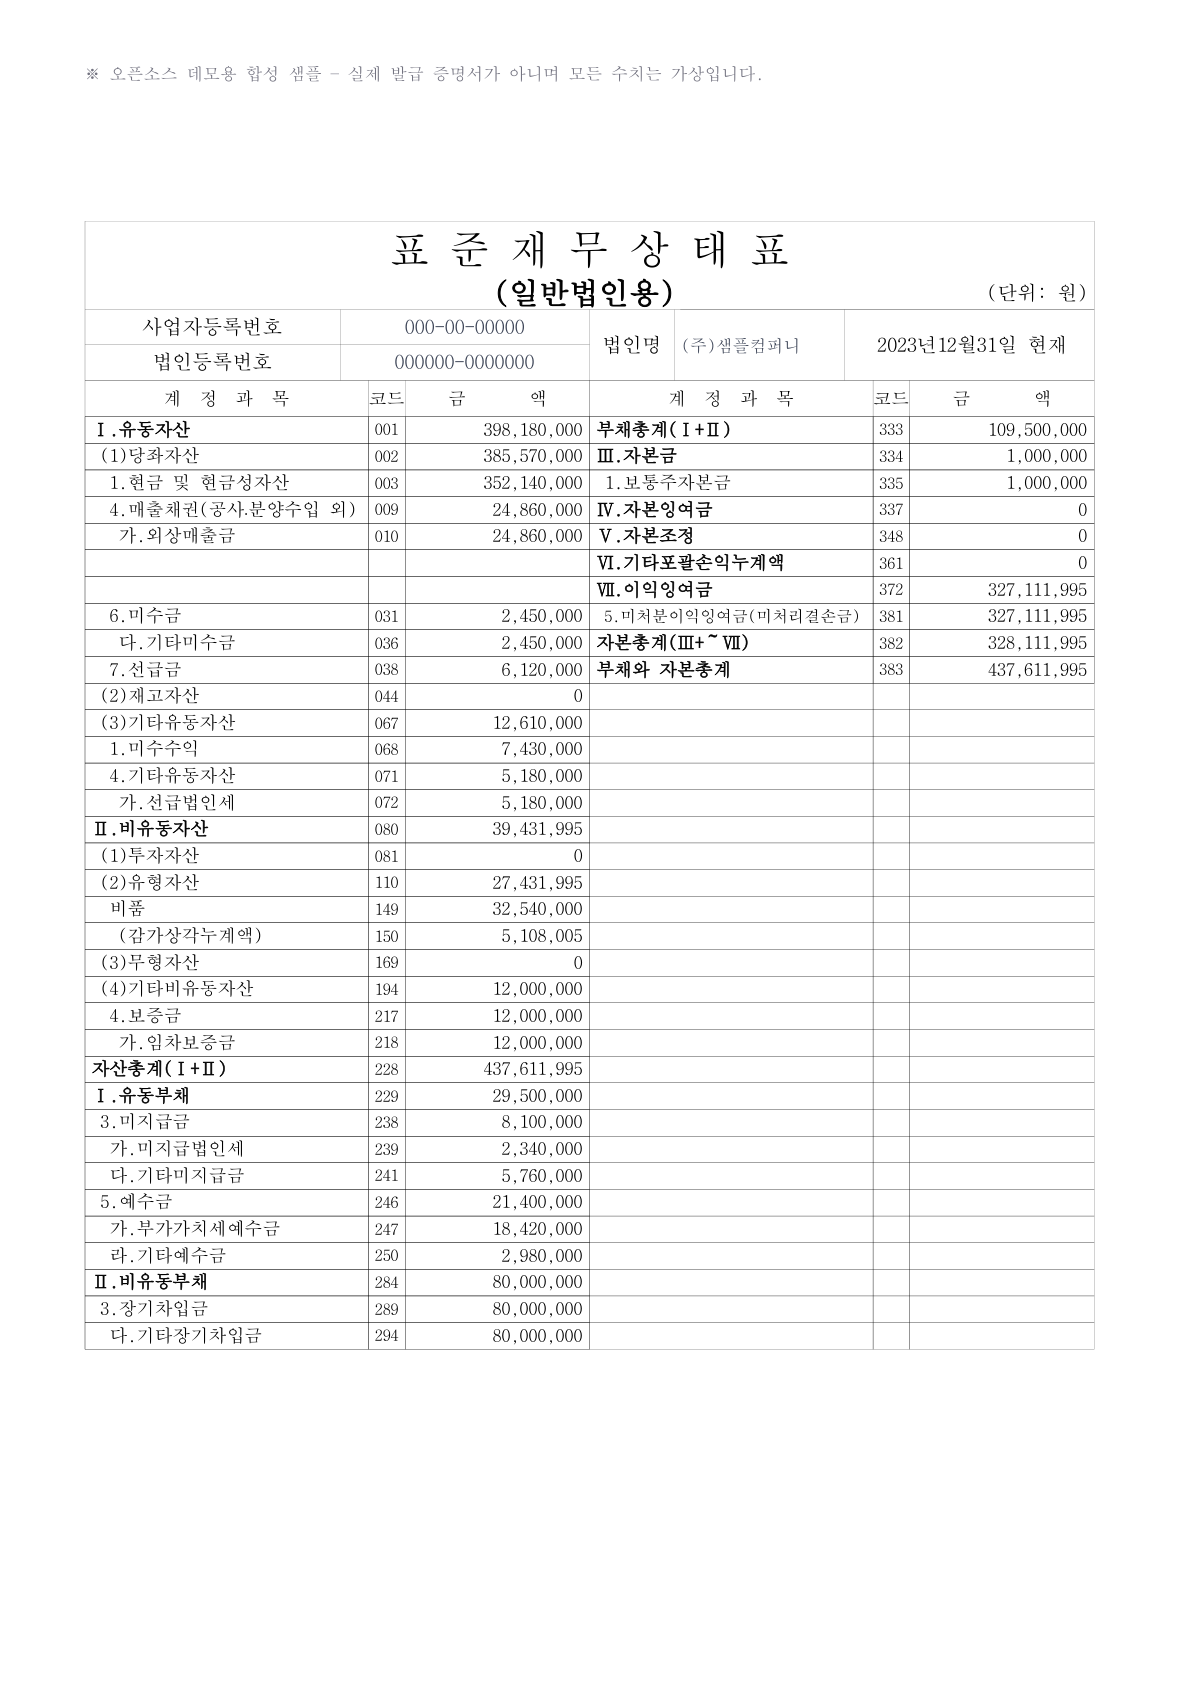
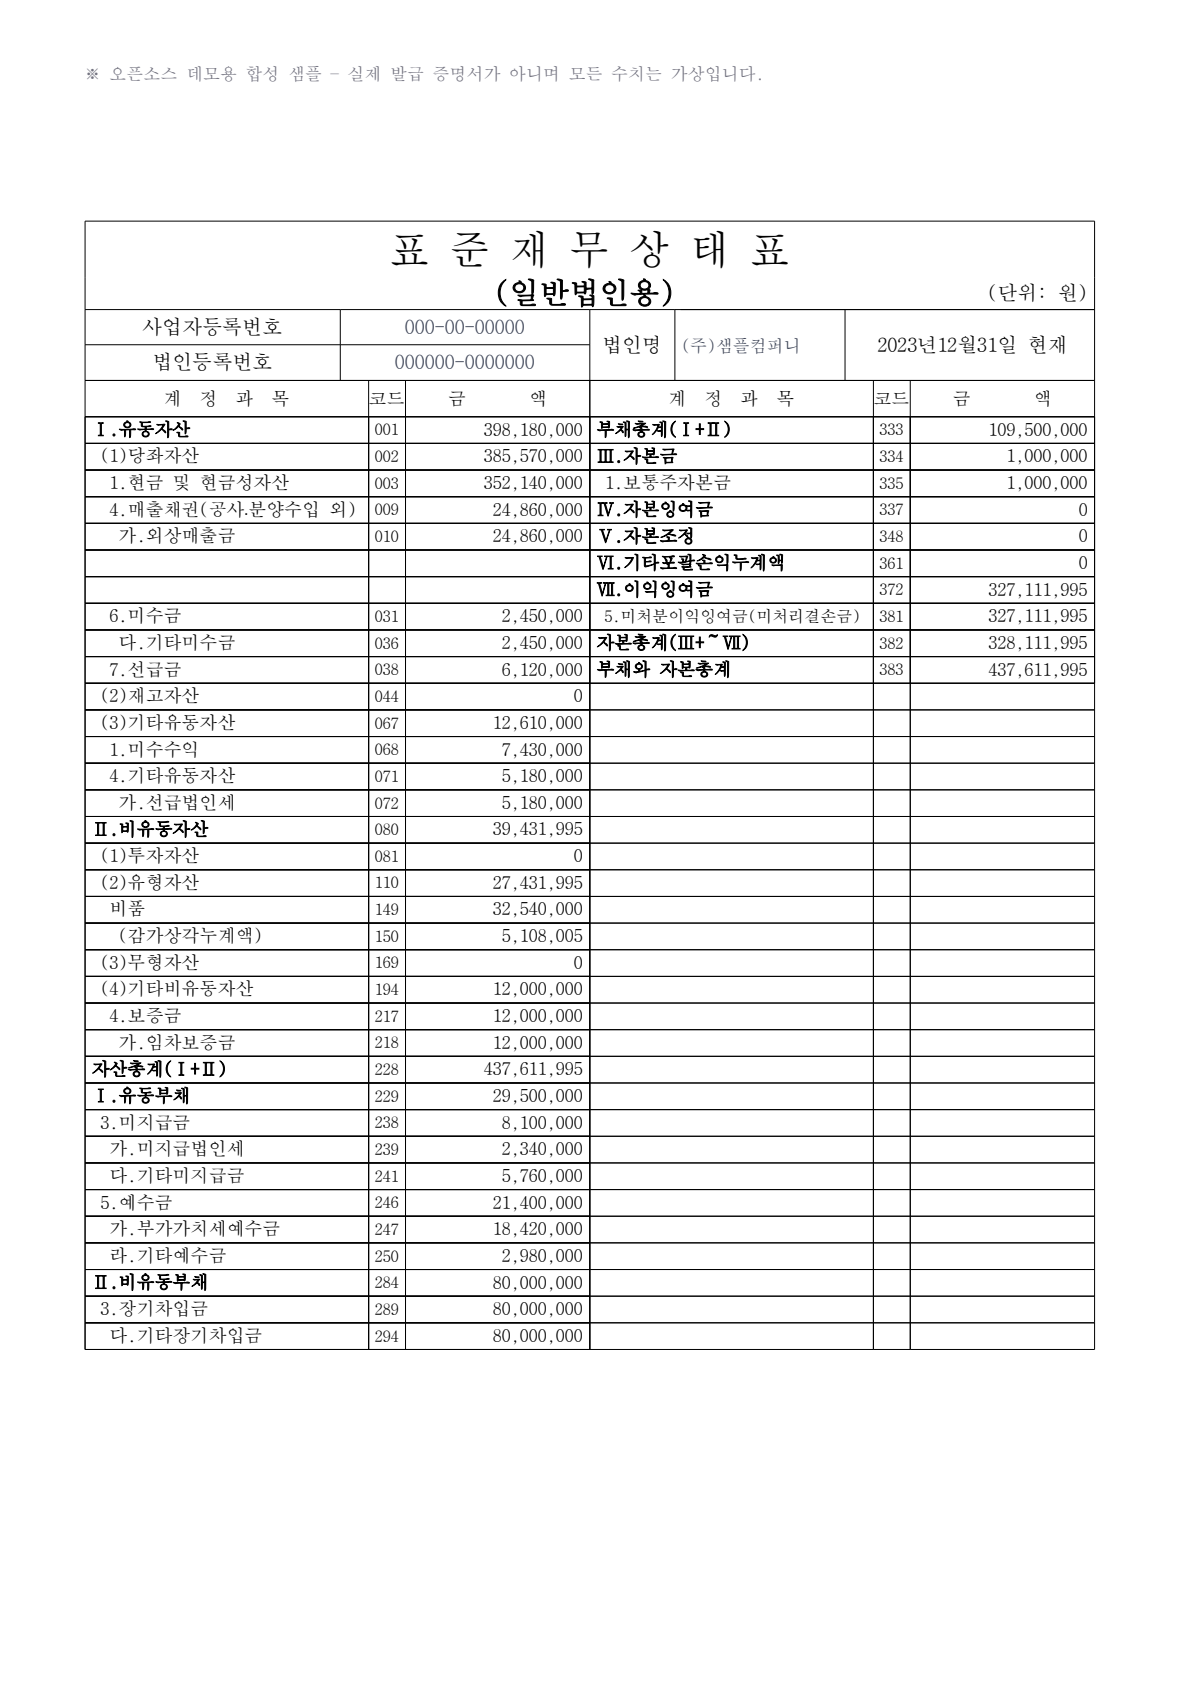
build: drop the AGPL dependency (PyMuPDF -> pypdfium2)
PyMuPDF sat in the optional, maintainer-only `fixture` extra, so it never
shipped to a user. But an AGPL package anywhere in the declared dependency
graph is a licence-compatibility question an Apache-2.0 project should not
have to answer, and an automated licence scan does not care that the extra is
optional.

pdfium gives the fixture builder the same two things it needs — a rasterized
page and word boxes — so there was nothing to trade away. pdfium exposes
characters rather than words and puts the origin at the bottom-left, so the
words are assembled and the axis flipped in _words().

The whole dependency surface, runtime and extras alike, is now MIT / BSD-3 /
Apache-2.0. CI's licence gate now scans the fixture extra too, since the
optional surface is where the question actually lived.

Fixture regenerated: gate results identical (invoice 3/3 -> 0/3 injected,
balance sheet 6/6 -> 3/6 injected); box coordinates shift up to ~2px from
glyph-metric differences between the engines, verified visually.

diff --git a/viewer/fixtures/image_data.js b/viewer/fixtures/image_data.js
@@ -166,10 +166,10 @@ window.GEK_DOCS = [
           "verdict": "verified",
           "confidence": 1.0,
           "box": [
-            483.5,
-            420.2,
-            582.5,
-            438.2
+            484.2,
+            422.4,
+            581.9,
+            438.1
           ],
           "failed": []
         },
@@ -180,10 +180,10 @@ window.GEK_DOCS = [
           "verdict": "verified",
           "confidence": 1.0,
           "box": [
-            492.6,
-            819.9,
-            582.6,
-            837.9
+            493.2,
+            822.1,
+            581.9,
+            837.8
           ],
           "failed": []
         },
@@ -194,10 +194,10 @@ window.GEK_DOCS = [
           "verdict": "verified",
           "confidence": 1.0,
           "box": [
-            483.5,
-            1059.7,
-            582.5,
-            1077.7
+            484.0,
+            1061.9,
+            581.9,
+            1077.6
           ],
           "failed": []
         },
@@ -208,10 +208,10 @@ window.GEK_DOCS = [
           "verdict": "verified",
           "confidence": 1.0,
           "box": [
-            988.1,
-            420.2,
-            1087.1,
-            438.2
+            989.9,
+            422.4,
+            1086.4,
+            438.1
           ],
           "failed": []
         },
@@ -222,10 +222,10 @@ window.GEK_DOCS = [
           "verdict": "verified",
           "confidence": 1.0,
           "box": [
-            988.1,
-            633.4,
-            1087.1,
-            651.4
+            988.7,
+            635.5,
+            1086.5,
+            651.3
           ],
           "failed": []
         },
@@ -236,9 +236,9 @@ window.GEK_DOCS = [
           "verdict": "verified",
           "confidence": 1.0,
           "box": [
-            988.1,
-            660.0,
-            1087.1,
+            988.6,
+            662.2,
+            1086.5,
             678.0
           ],
           "failed": []
@@ -262,10 +262,10 @@ window.GEK_DOCS = [
           "verdict": "discarded",
           "confidence": 0.0,
           "box": [
-            483.5,
-            420.2,
-            582.5,
-            438.2
+            484.2,
+            422.4,
+            581.9,
+            438.1
           ],
           "failed": [
             {
@@ -281,10 +281,10 @@ window.GEK_DOCS = [
           "verdict": "discarded",
           "confidence": 0.0,
           "box": [
-            492.6,
-            819.9,
-            582.6,
-            837.9
+            493.2,
+            822.1,
+            581.9,
+            837.8
           ],
           "failed": [
             {
@@ -300,10 +300,10 @@ window.GEK_DOCS = [
           "verdict": "discarded",
           "confidence": 0.0,
           "box": [
-            483.5,
-            1059.7,
-            582.5,
-            1077.7
+            484.0,
+            1061.9,
+            581.9,
+            1077.6
           ],
           "failed": [
             {
@@ -319,10 +319,10 @@ window.GEK_DOCS = [
           "verdict": "verified",
           "confidence": 1.0,
           "box": [
-            988.1,
-            420.2,
-            1087.1,
-            438.2
+            989.9,
+            422.4,
+            1086.4,
+            438.1
           ],
           "failed": []
         },
@@ -333,10 +333,10 @@ window.GEK_DOCS = [
           "verdict": "verified",
           "confidence": 1.0,
           "box": [
-            988.1,
-            633.4,
-            1087.1,
-            651.4
+            988.7,
+            635.5,
+            1086.5,
+            651.3
           ],
           "failed": []
         },
@@ -347,9 +347,9 @@ window.GEK_DOCS = [
           "verdict": "verified",
           "confidence": 1.0,
           "box": [
-            988.1,
-            660.0,
-            1087.1,
+            988.6,
+            662.2,
+            1086.5,
             678.0
           ],
           "failed": []

diff --git a/viewer/build_combined_fixture.py b/viewer/build_combined_fixture.py
@@ -18,7 +18,14 @@ issuer imagery, barcodes and company identifiers were removed at object level.
 That is why this script needs no private input and anyone can reproduce the
 fixture. ``GEK_BALANCE_PDF`` may still point it at a different source document.
 
-Run (needs PyMuPDF + Pillow):  python viewer/build_combined_fixture.py
+Run (needs pypdfium2 + Pillow):  python viewer/build_combined_fixture.py
+
+PDF rendering and text extraction go through **pypdfium2** (BSD-3-Clause /
+Apache-2.0), not PyMuPDF. PyMuPDF is AGPL-3.0, and an AGPL package anywhere in
+the dependency graph — even in an optional, maintainer-only extra like this one —
+is a licence-compatibility question this Apache-2.0 project should not have to
+answer. pdfium gives the same two things this script needs (a rasterized page and
+word boxes), so there is nothing to trade away.
 """
 
 from __future__ import annotations
@@ -28,7 +35,7 @@ import os
 import sys
 from pathlib import Path
 
-import fitz
+import pypdfium2 as pdfium
 from PIL import Image, ImageDraw, ImageFont
 
 ROOT = Path(__file__).resolve().parent.parent
@@ -150,6 +157,43 @@ def _digits(s: str) -> str:
     return "".join(c for c in s if c.isdigit())
 
 
+def _words(page, textpage) -> list[tuple[float, float, float, float, str]]:
+    """Whitespace-delimited words as ``(x0, y0, x1, y1, text)`` in page points.
+
+    pdfium exposes characters, not words, and puts the origin at the bottom-left
+    with y growing upward. Both are converted here so the rest of the script (and
+    the boxes it writes into the fixture) keeps working in the top-left,
+    y-down space the viewer overlays expect.
+    """
+    _, page_height = page.get_size()
+    out: list[tuple[float, float, float, float, str]] = []
+    chars: list[str] = []
+    box: list[float] | None = None
+
+    def flush() -> None:
+        nonlocal box
+        if chars and box is not None:
+            out.append((box[0], box[1], box[2], box[3], "".join(chars)))
+        chars.clear()
+        box = None
+
+    for i in range(textpage.count_chars()):
+        ch = textpage.get_text_range(i, 1)
+        if not ch or ch.isspace():
+            flush()
+            continue
+        left, bottom, right, top = textpage.get_charbox(i)
+        # bottom-left origin -> top-left origin
+        y0, y1 = page_height - top, page_height - bottom
+        if box is None:
+            box = [left, y0, right, y1]
+        else:
+            box = [min(box[0], left), min(box[1], y0), max(box[2], right), max(box[3], y1)]
+        chars.append(ch)
+    flush()
+    return out
+
+
 def build_balance() -> dict:
     if not SRC_PDF.exists():
         raise SystemExit(
@@ -165,15 +209,15 @@ def build_balance() -> dict:
             f"! derived from it.",
             file=sys.stderr,
         )
-    doc = fitz.open(SRC_PDF)
+    doc = pdfium.PdfDocument(SRC_PDF)
     page = doc[BS_PAGE]
-    pix = page.get_pixmap(matrix=fitz.Matrix(Z, Z))
-    img = Image.frombytes("RGB", (pix.width, pix.height), pix.samples)
+    img = page.render(scale=Z).to_pil().convert("RGB")
     W, H = img.size
     BS_IMG.parent.mkdir(parents=True, exist_ok=True)
     img.save(BS_IMG)
 
-    words = page.get_text("words")
+    textpage = page.get_textpage()
+    words = _words(page, textpage)
 
     def box_for(num: int, side: str | None):
         key = str(num)
@@ -190,7 +234,7 @@ def build_balance() -> dict:
 
     boxes = {fid: box_for(num, side) for fid, _lbl, num, side in BS_FIELDS}
     labels = {fid: lbl for fid, lbl, _n, _s in BS_FIELDS}
-    real_text = page.get_text()
+    real_text = textpage.get_text_range()
     pack = load_rule_pack(ROOT / "rules" / "balance_sheet.yaml")
 
     def run(noncur_num: int, noncur_raw: str, text: str) -> dict:

diff --git a/CHANGELOG.md b/CHANGELOG.md
@@ -11,7 +11,23 @@ Benchmark numbers are part of the public contract: any release that changes
 
 ## [Unreleased]
 
-_Nothing yet. See the roadmap in [README.md](README.md#roadmap)._
+### Changed
+
+- **The viewer fixture builder uses `pypdfium2` (BSD-3-Clause / Apache-2.0)
+  instead of PyMuPDF (AGPL-3.0).** PyMuPDF sat in the optional, maintainer-only
+  `fixture` extra, so it never shipped to a user — but an AGPL package anywhere
+  in the declared dependency graph is a licence-compatibility question an
+  Apache-2.0 project should not have to answer, and automated licence scans do
+  not care that the extra is optional. pdfium provides the same two things the
+  script needs (a rasterized page and word boxes), so nothing was traded away.
+  The whole dependency surface, runtime and extras alike, is now MIT / BSD-3 /
+  Apache-2.0.
+- CI's licence gate now scans the `fixture` extra as well as the runtime
+  dependency, because the optional surface is where the question actually lived.
+- `viewer/assets/balance_sheet_demo.png` and `viewer/fixtures/image_data.js`
+  were regenerated with the new renderer. Gate results are identical; box
+  coordinates shift by up to ~2px from glyph-metric differences between the two
+  engines.
 
 ## [0.1.1] - 2026-08-16
 
